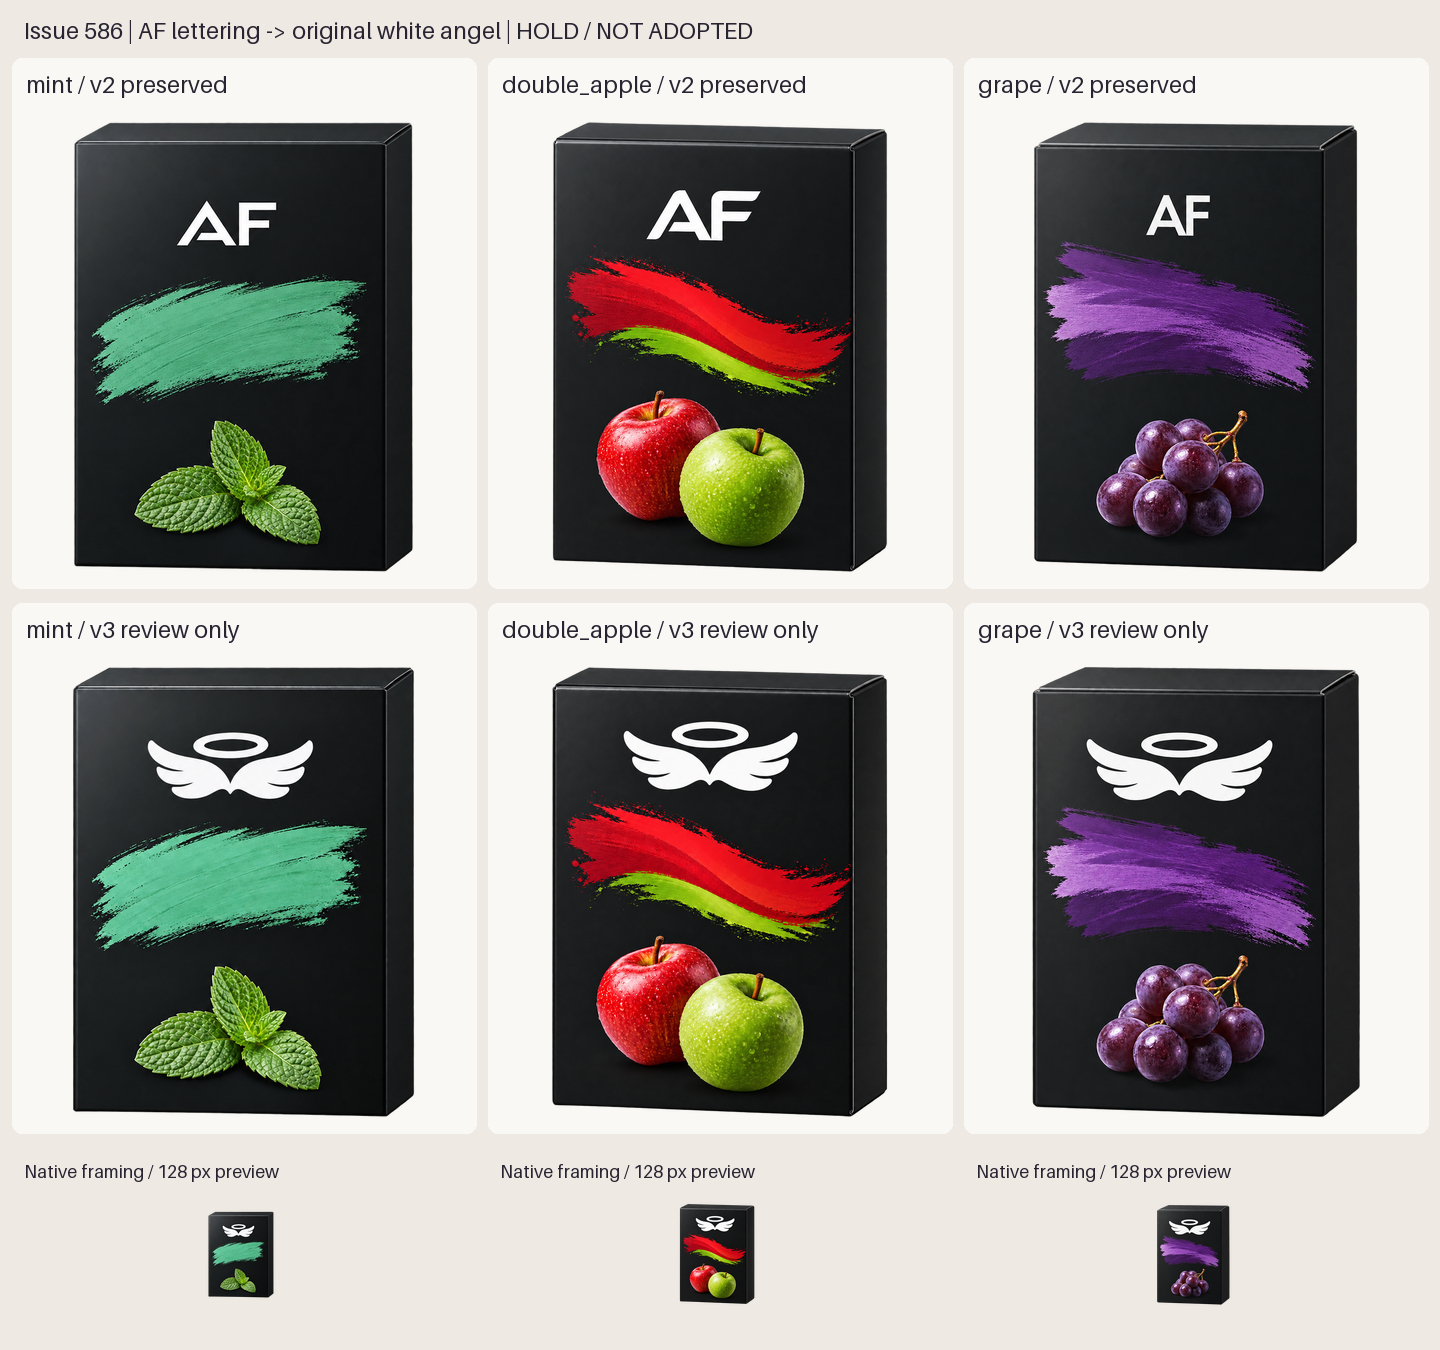
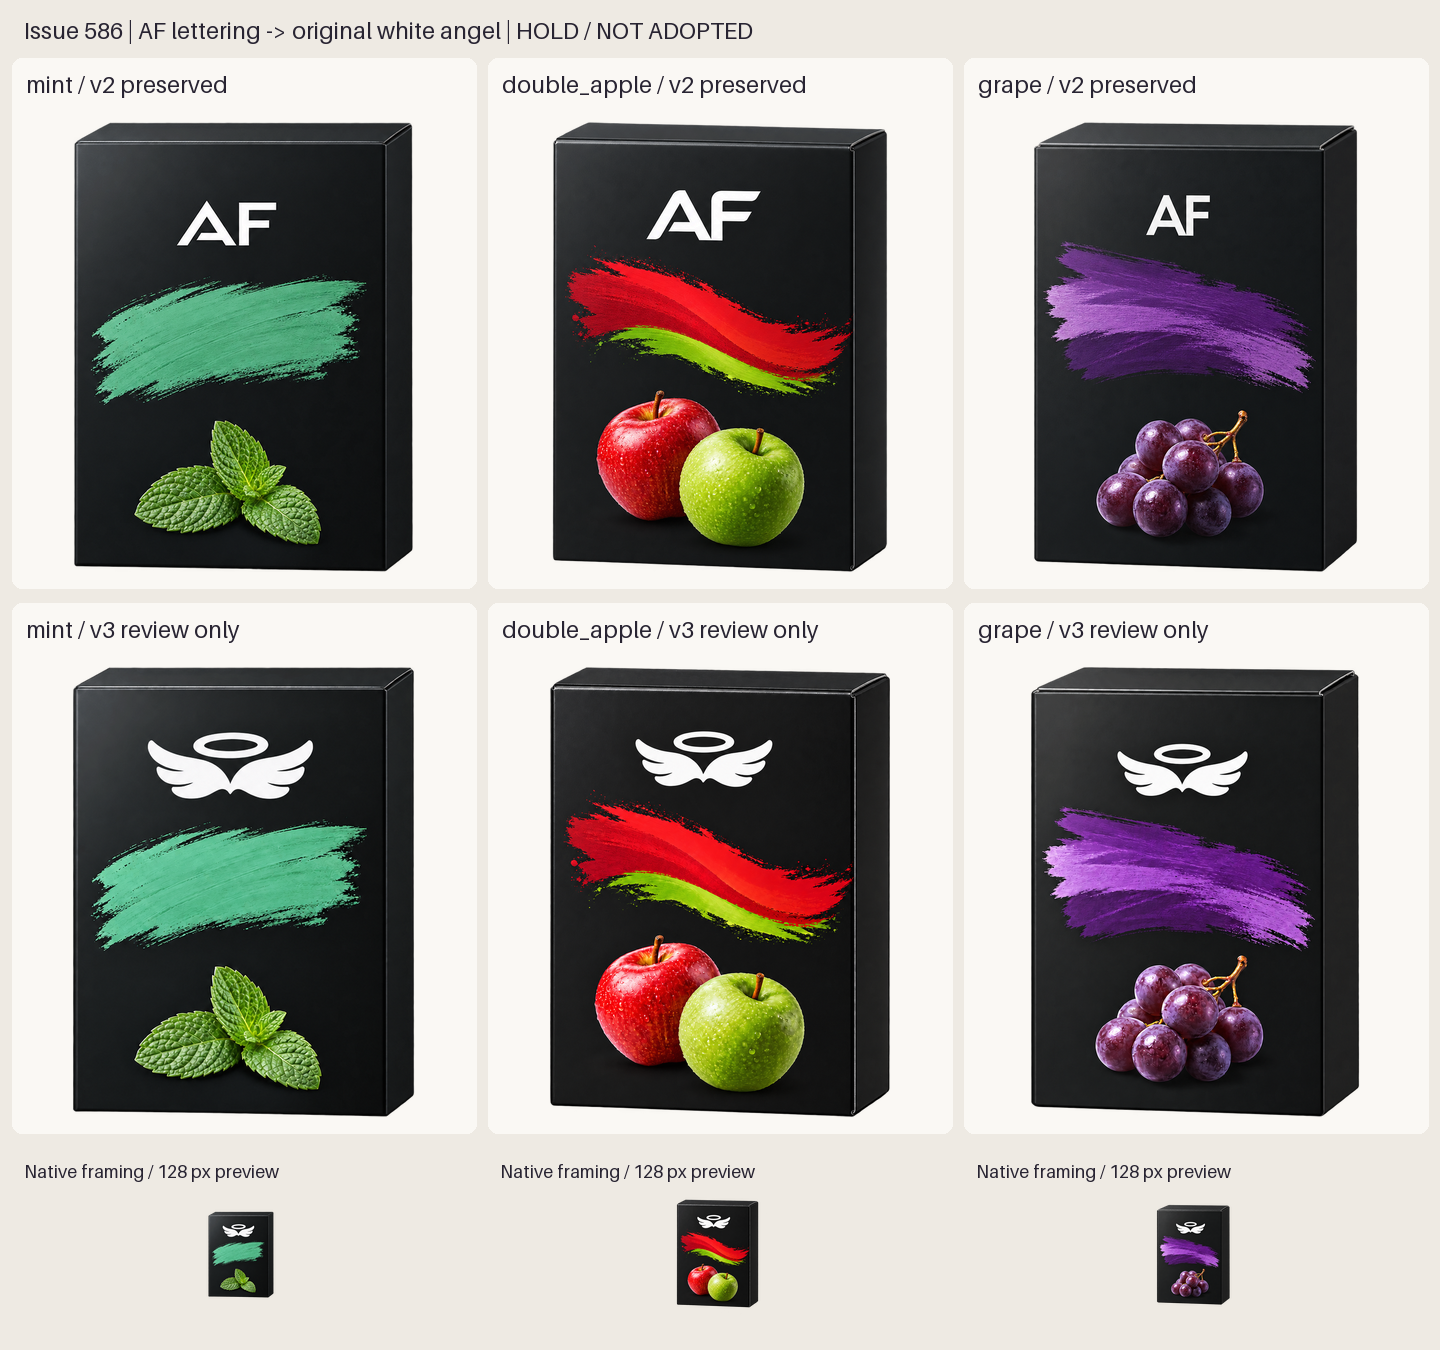
assets: preserve angel size-correction candidates and shared print template (#586)

diff --git a/asset_sources/shop-art-issue586/prototype-retail-angel-mark-v3/index.html b/asset_sources/shop-art-issue586/prototype-retail-angel-mark-v3/index.html
@@ -3,6 +3,6 @@
 <h1>白い天使マーク代表比較（本編未接続・採用保留）</h1><p>既存ブランド「アルファーヘブン」は維持。絵のAF文字だけを独立した白い翼＋輪へ変更。旧21点・v2箱・HMDは全て保持し、HMDは今回生成していません。</p>
 <table><tr><th>商品</th><th>v2 AF版（保持）</th><th>v3 白い天使版（未採用）</th></tr>
 <tr><th>アルファーヘブン ミント</th><td><img alt="v2 保持" src="../prototype-retail-cartons-no-grass-v2/originals/mint-retail-prototype.png"></td><td><img alt="v3 未採用" src="candidates/mint-angel-first.png"></td></tr>
-<tr><th>アルファーヘブン ダブルアップル</th><td><img alt="v2 保持" src="../prototype-retail-cartons-no-grass-v2/originals/double_apple-retail-prototype.png"></td><td><img alt="v3 未採用" src="candidates/double_apple-angel-first.png"></td></tr>
-<tr><th>アルファーヘブン グレープ</th><td><img alt="v2 保持" src="../prototype-retail-cartons-no-grass-v2/originals/grape-retail-prototype.png"></td><td><img alt="v3 未採用" src="candidates/grape-angel-first.png"></td></tr>
+<tr><th>アルファーヘブン ダブルアップル</th><td><img alt="v2 保持" src="../prototype-retail-cartons-no-grass-v2/originals/double_apple-retail-prototype.png"></td><td><img alt="v3 未採用" src="candidates/double_apple-angel-size-correction.png"></td></tr>
+<tr><th>アルファーヘブン グレープ</th><td><img alt="v2 保持" src="../prototype-retail-cartons-no-grass-v2/originals/grape-retail-prototype.png"></td><td><img alt="v3 未採用" src="candidates/grape-angel-size-correction.png"></td></tr>
 </table><p><a href="originals/canonical-white-angel-mark.png">共通マスター</a> / <a href="qa/canonical-on-dark-preview.png">マスター暗色背景プレビュー</a> / <a href="mark-measurements.json">位置・大きさ計測</a> / <a href="prompts.json">実プロンプト</a></p></html>
